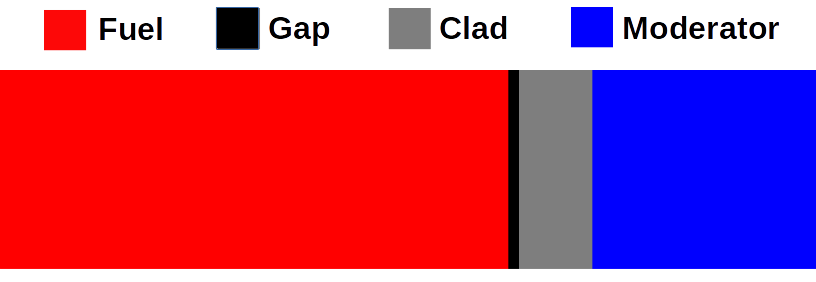
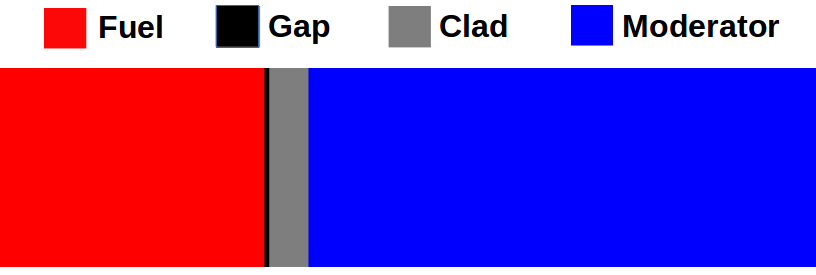
Updated slab figures

diff --git a/data/biases/slab/build-xml.py b/data/biases/slab/build-xml.py
@@ -51,11 +51,11 @@ opencg_water = openmc.opencg_compatible.get_opencg_material(borated_water)
 # Create bounding surfaces
 # Preserve the moderator-to-fuel ratio with the fuel pin
 min_x = opencg.XPlane(boundary='reflective', x0=0.0)
-max_x = opencg.XPlane(boundary='reflective', x0=0.62992)
+max_x = opencg.XPlane(boundary='reflective', x0=1.21243)
 min_y = opencg.YPlane(boundary='reflective', y0=0.0)
 max_y = opencg.YPlane(boundary='reflective', y0=0.62992)
 min_z = opencg.ZPlane(boundary='reflective', z0=0.0)
-max_z = opencg.ZPlane(boundary='reflective', z0=1.21243)
+max_z = opencg.ZPlane(boundary='reflective', z0=0.62992)
 
 # Create material interfacial surfaces
 mid1 = opencg.XPlane(surface_id=1, boundary='interface', x0=0.39218)
